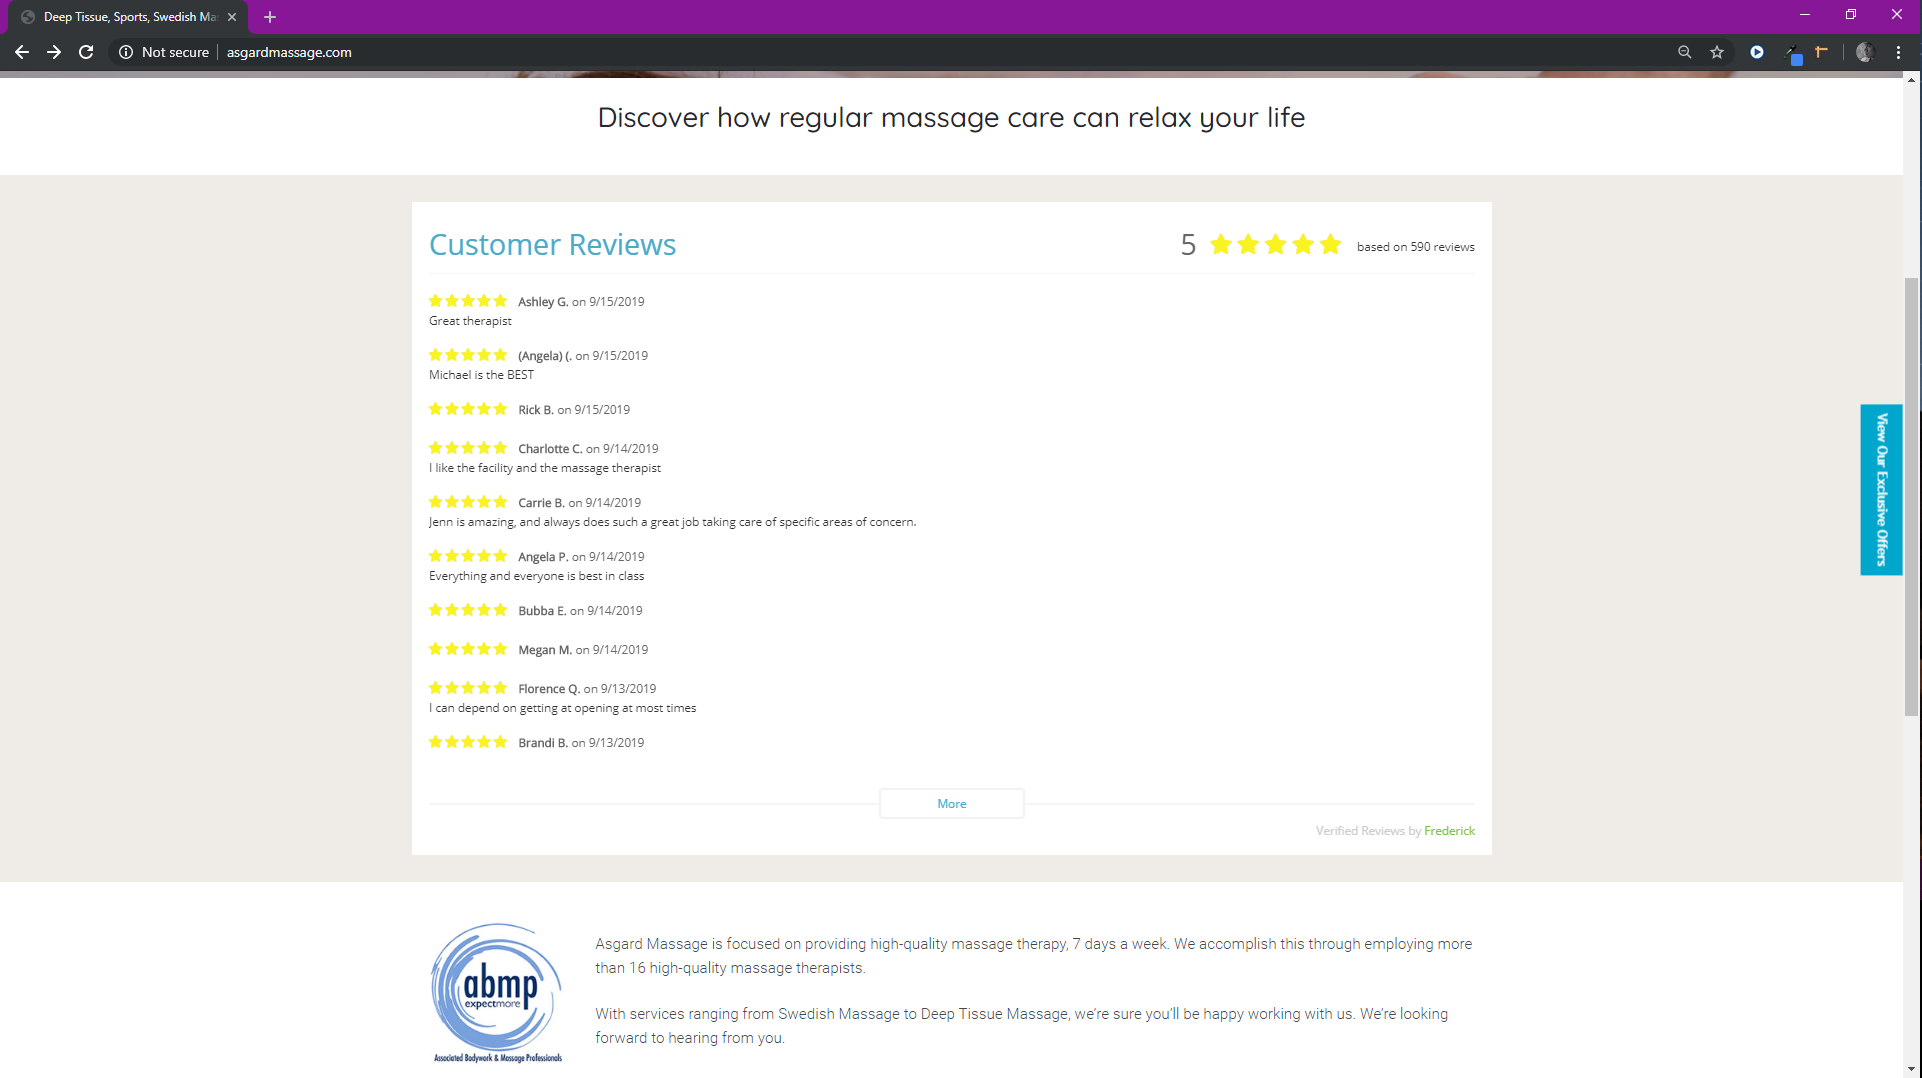
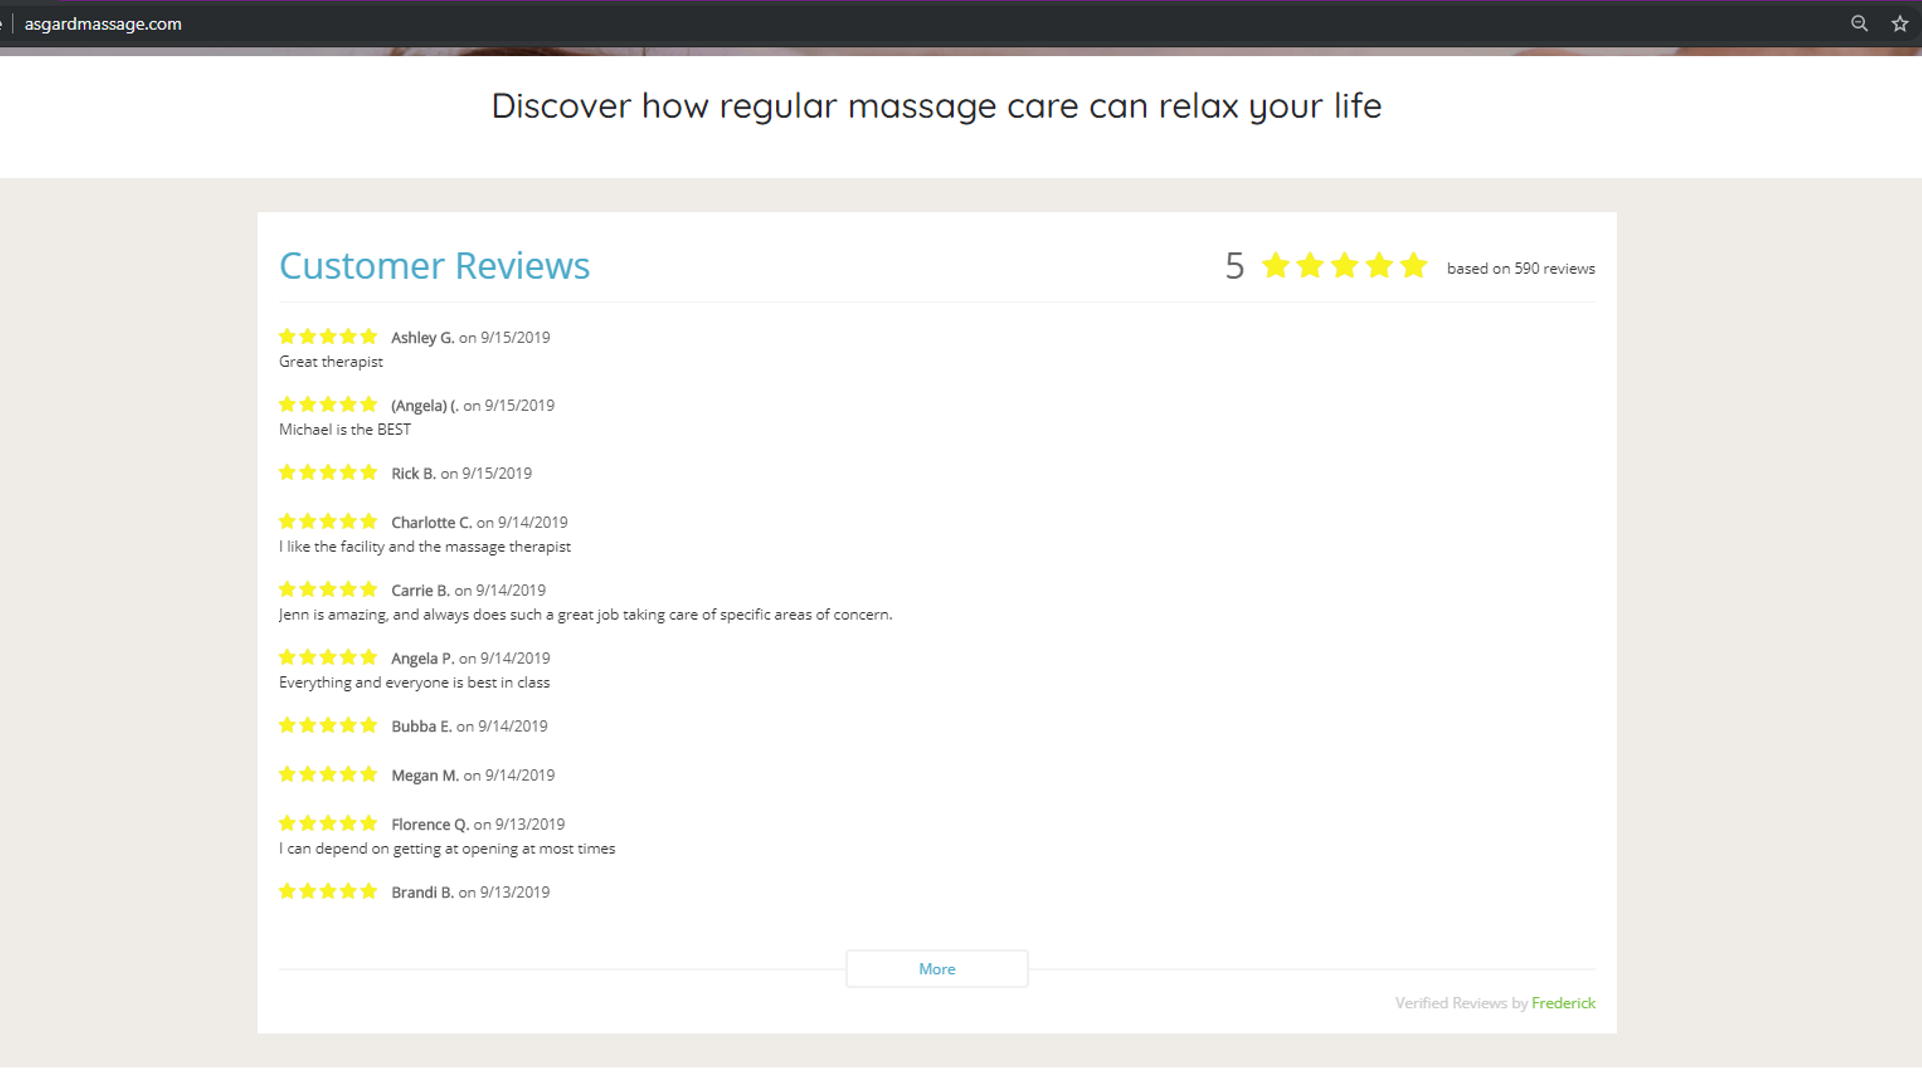
resized portfolio image

diff --git a/index.html b/index.html
@@ -495,9 +495,7 @@
                                 <!-- Project Details Go Here -->
                                 <h2 class="text-uppercase">Asgard Massage</h2>
                                 <p class="item-intro text-muted">Modification of existing website.</p>
-                                <a href="img/project_media/Asgard_Comments_Screenshot.png" data-toggle="lightbox">
-                                    <img src="img/project_media/Asgard_Screenshot.png" class="img-fluid">
-                                </a>
+                                <img src="img/project_media/Asgard_Comments_Screenshot.png" class="img-fluid">
                                 <p>Hired to delete sections of HTML code from Wordpress website and embed code block for expandable, dynamically populated client reviews section provided by 3rd-party review service provider. Also modified CSS and updated
                                     website content for client.</p>
                                 <ul class="list-inline">
